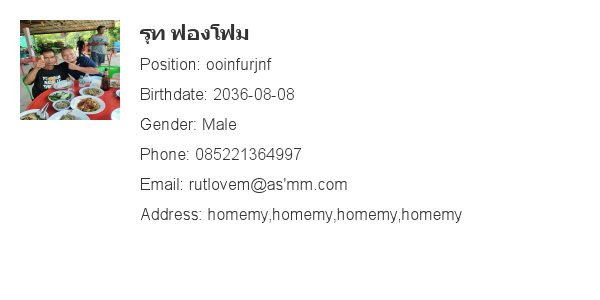
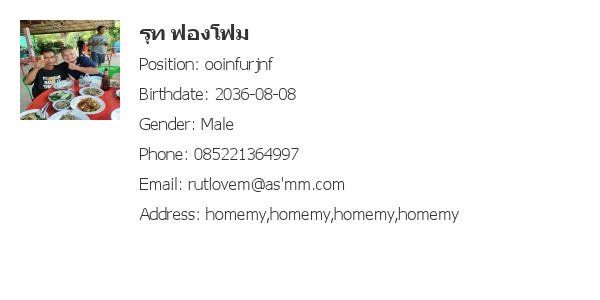
gencard

diff --git a/handlers/gen_card.js b/handlers/gen_card.js
@@ -30,11 +30,11 @@ async function drawCard(data, outputPath) {
 
     // วาดข้อมูล
     ctx.fillStyle = '#333';
-    ctx.font = 'bold 20px tahoma';
+    ctx.font = 'bold 20px ';
     ctx.fillText(`${data.firstname} ${data.lastname}`, 140, 40);
     console.log(data.firstname, data.lastname);
 
-    ctx.font = '16px Arial';
+    ctx.font = '16px ';
     ctx.fillText(`Position: ${data.position}`, 140, 70);
     ctx.fillText(`Birthdate: ${data.birthdate}`, 140, 100);
     ctx.fillText(`Gender: ${data.gender}`, 140, 130);
